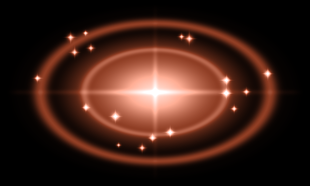
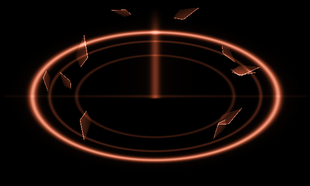
Reimagine SYNK mode's hit as the note's ring releasing
The eleven hit frames are redrawn: the ring snaps outward along the road as
a crisp double rim with a fainter ring behind it, the glass inside flashes
once, a narrow pillar of light shoots up from the centre and thins away,
and shards of glass scatter and tumble upward. The large white bloom is
gone. Same sprite size and 33 fps timing; still recoloured per note.

diff --git a/tools/make_synk_mode_art.py b/tools/make_synk_mode_art.py
@@ -216,52 +216,68 @@ def pause():
 
 
 def hit():
-    """SYNK mode's hit flash: 11 frames on black for additive blending, the same 310 x 186
-    sprite and 33 fps rhythm as SSRG's Effect_A (bloom to a white-hot peak by the third
-    frame, then a spreading ring and drifting shards). Its own character: the bloom is
-    SYNK's four-point sparkle, a cross of light over a flattened shock ring, and the
-    shards are small sparkles. The game recolours it per note from its brightness."""
+    """SYNK mode's hit: the note's ring releasing. Eleven frames on black for additive
+    blending, the same 310 x 186 sprite and 33 fps timing as SSRG's Effect_A.
+    The ring snaps outward along the road as a crisp double rim; the glass inside it
+    flashes once; a narrow pillar of light shoots up from the centre and thins away; and
+    shards of glass scatter and tumble upward. There is no large bloom, so the road stays
+    readable. The game recolours it per note from its brightness."""
     w, h, ss = 310, 186, 2
     Y, X = np.mgrid[0:h * ss, 0:w * ss].astype(float) / ss
-    cx, cy, half, squash = 155.0, 92.0, 150.0, .6
+    cx, cy, half, squash = 155.0, 96.0, 150.0, .52       # the ring lies flat on the road, centred on the hit
     dx, dy = X - cx, Y - cy
-    r = np.hypot(dx, dy / squash) / half          # 0 at the centre, 1 at the sprite's edge
-    rng = np.random.default_rng(7)
-    shards = [(rng.uniform(0, 2 * np.pi), rng.uniform(.45, 1.15), rng.uniform(4.5, 9.5), rng.uniform(0, .5)) for _ in range(18)]
+    r = np.hypot(dx, dy / squash) / half                 # 0 at the centre, 1 at the sprite's side edge
+    rng = np.random.default_rng(11)
+    # Shards: direction, speed, size, spin, rise.
+    shards = [(rng.uniform(0, 2 * np.pi), rng.uniform(.5, 1.05), rng.uniform(12, 22), rng.uniform(-3, 3), rng.uniform(.3, 1.0)) for _ in range(11)]
     for i in range(11):
         t = i / 10
-        peak = np.exp(-((t - .24) / .24) ** 2)     # the bloom: strongest at frame 3
-        fade = (1 - t) ** 1.1
+        ease = 1 - (1 - t) ** 2.4                        # fast out, slowing
+        fade = (1 - t) ** 1.3
+        snap = np.exp(-(t / .16) ** 2)                   # the first instant
         light = np.zeros_like(r)
-        # White-hot core, flattened like the floor it sits on.
-        core_r = .16 + .40 * peak
-        light += np.exp(-(r / core_r) ** 2) * max(1.9 * peak, 1.15 * (1 - t) ** 1.3)
-        light += np.exp(-r / (.2 + .35 * peak)) * (.7 * peak + .25 * fade)
-        # A glowing disc of light on the floor, spreading with the ring and lasting like SSRG's.
-        disc_r = .34 + .5 * (1 - (1 - t) ** 2)
-        light += smooth(disc_r, disc_r * .55, r) * (.7 * peak + .45 * (1 - t) ** 1.2)
-        # Shock ring spreading out, and a fainter one following it.
-        ring_r = .14 + .8 * (1 - (1 - t) ** 2.2)
-        light += np.exp(-((r - ring_r) / (.02 + .06 * (1 - t))) ** 2) * fade * 1.15
-        if t > .1:
-            light += np.exp(-((r - ring_r * .62) / .03) ** 2) * (1 - t) ** 1.4 * .7
-        # The four-point sparkle: a long horizontal flare and a shorter rising one.
-        light += np.exp(-(dy / (1.6 + 3.2 * peak)) ** 2) * np.exp(-np.abs(dx) / (30 + 115 * peak)) * peak * 1.25
-        light += np.exp(-(dx / (1.6 + 2.6 * peak)) ** 2) * np.exp(-np.abs(dy) / (10 + 62 * peak)) * peak * 1.0
-        # Sparkle shards thrown outward, drifting up a little as they fade.
-        for angle, speed, size, lift in shards:
-            d = (.1 + speed * (1 - (1 - t) ** 1.8)) * half * .92
+        # The ring: a bold outer rim and a fine inner one, like the note, thinning as it runs.
+        ring_r = .30 + .64 * ease
+        width = .030 * (1 - .65 * t) + .006
+        light += np.exp(-((r - ring_r) / width) ** 2) * (.55 + .75 * fade) * min(1.0, 1.5 - t)
+        light += np.exp(-((r - ring_r * .86) / (width * .45)) ** 2) * fade * .7
+        light += np.exp(-np.abs(r - ring_r) / .05) * fade * .22          # a soft glow hugging the rim
+        # A second, fainter ring leaves a beat later.
+        if t > .2:
+            late = (t - .2) / .8
+            light += np.exp(-((r - (.22 + .5 * (1 - (1 - late) ** 2))) / .012) ** 2) * (1 - late) ** 1.5 * .45
+        # The glass inside the ring flashes once and clears.
+        light += smooth(ring_r, ring_r * .5, r) * snap * .5
+        # A small hot core, only at the first instant.
+        light += np.exp(-(r / .11) ** 2) * snap * 1.6
+        # The pillar: a narrow column rising from the centre, thinning and fading.
+        rise = np.clip((cy - Y) / (cy - 4), 0, 1)        # 0 at the ring's centre, 1 at the sprite's top
+        pillar_w = 2.0 + 9.0 * (1 - t) ** 2
+        reach = min(1.0, .35 + 2.6 * t)                  # how high it has shot
+        column = np.exp(-(dx / pillar_w) ** 2) * (Y <= cy + 2) * smooth(reach, reach * .55, rise) * (1 - t) ** 1.6
+        light += column * 1.25
+        light += np.exp(-np.abs(dx) / (pillar_w * 3.5)) * (Y <= cy + 2) * smooth(reach, reach * .4, rise) * (1 - t) ** 2 * .22
+        # A fine streak along the road through the centre.
+        light += np.exp(-(dy / (1.2 + 2.0 * snap)) ** 2) * np.exp(-np.abs(dx) / (40 + 90 * ease)) * (1 - t) ** 2.2 * .9
+        # Shards of glass: kites lit along one edge, flying out, rising and tumbling.
+        for angle, speed, size, spin, lift in shards:
+            d = (.22 + speed * ease) * half * .8
             sx = cx + np.cos(angle) * d
-            sy = cy + np.sin(angle) * d * squash - lift * d * .3
-            scale = size * (1 - .55 * t) * (.6 + .6 * peak)
-            ax, ay = np.abs(X - sx) / scale, np.abs(Y - sy) / scale
-            star = np.clip(1 - (np.sqrt(ax / 2.2) + np.sqrt(ay / 2.2)), 0, 1)
-            light += (star ** 1.3 * 2.0 + np.exp(-(ax ** 2 + ay ** 2) * 2) * 1.0) * (1 - t) ** .8 * min(1.0, t * 12)
+            sy = cy + np.sin(angle) * d * squash - lift * ease * 46
+            turn = angle + spin * t
+            lx = (X - sx) * np.cos(turn) + (Y - sy) * np.sin(turn)
+            ly = -(X - sx) * np.sin(turn) + (Y - sy) * np.cos(turn)
+            scale = size * (1 - .5 * t)
+            kite = 1 - (np.abs(lx) / (scale * np.where(lx > 0, 1.5, .7)) + np.abs(ly) / (scale * .42))
+            inside = kite > 0
+            facet = np.clip(.18 + .5 * (ly / (scale * .42) + 1) / 2, 0, 1)
+            rim = smooth(.16, 0, kite) * (ly > 0)
+            light += inside * (facet * .95 + rim * 1.5) * (1 - t) ** .9 * min(1.0, t * 10)
         # Keep everything inside the sprite.
-        light *= smooth(1.0, .9, r) * smooth(0, 8, np.minimum(Y, h - Y))
+        light *= smooth(0, 6, np.minimum(np.minimum(X, w - X), np.minimum(Y, h - Y)))
         light = np.clip(light, 0, 2)
         base = np.clip(light, 0, 1)
-        rgb = CORAL * base[..., None] + (WHITE - CORAL) * np.clip(light - .55, 0, 1)[..., None]
+        rgb = CORAL * base[..., None] + (WHITE - CORAL) * np.clip(light - .6, 0, 1)[..., None]
         img = Image.fromarray(np.clip(rgb * 255 + .5, 0, 255).astype(np.uint8), "RGB").resize((w, h), Image.LANCZOS).convert("RGBA")
         for attempt in range(8):
             try:
